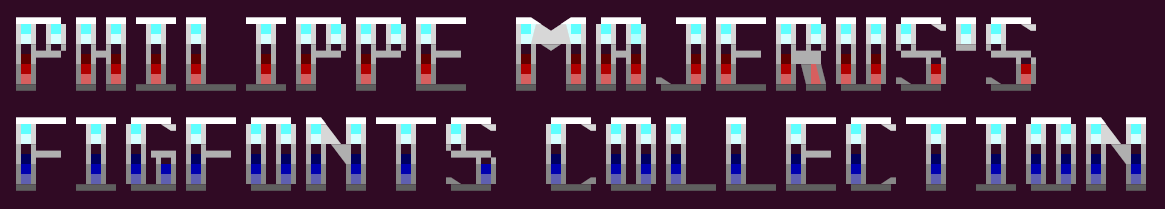
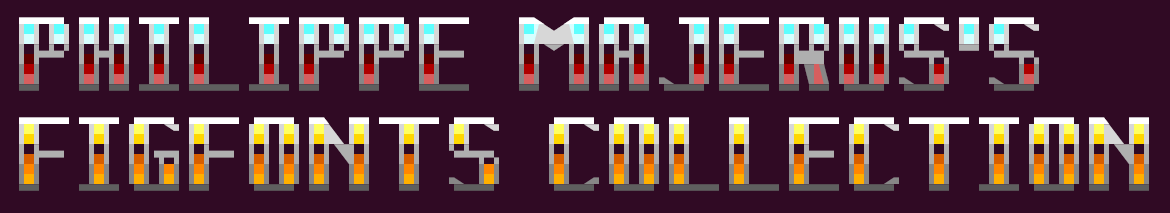
Updated documentation and title image.

diff --git a/README.md b/README.md
@@ -116,8 +116,8 @@ _Remember to use `figlet -f phm-slanted -C utf8` to access Unicode characters._
 ### phm-chisel
 ![phm-chisel](images/phm-chisel.png)
 
-This font uses Unicode 13.0 smooth mosaic and sextant characters, as well as some quadrants, and requires 16 colors ANSI/VT escape sequences support.
-It uses six rows and supports the ASCII, ISO 8859-1 and Windows 1252 Latin-1 characters sets, and Japanese Katakana (and Hiragana as Katakana).
+This font uses Unicode 13.0 smooth mosaic and sextant characters, as well as some quadrants, and requires 16 colors ANSI/VT escape sequences support, and uses six rows.
+It contains 617 characters, and supports the ASCII, ISO 8859-1 and Windows 1252 Latin-1 characters sets, and Japanese Katakana (and Hiragana as Katakana).
 
 It works in FIGlet 2.2.5, but the width computation gets confused, so it can only be used for single lines. It requires `-w 9999` to avoid misplaced line breaks.
 It does not work at all in TOIlet 0.3, as escape sequences get removed.
@@ -167,7 +167,7 @@ _Remember to use `figlet -f beyond-blue -w 9999` to avoid misplaced line breaks 
 
 ### PHM Beyond Neo (FIGfont family)
 
-This font family is inspired by the look of ST+Roy/SAC Beyond, but using just 5 rows by taking advantage of Unicode 16.0 Symbols for Legacy Computing. It supports the ASCII, ISO 8859-1 and Windows 1252 Latin-1 characters sets, and Japanese Katakana (and Hiragana as Katakana).
+This font family is inspired by the look of ST+Roy/SAC Beyond, but using just 5 rows by taking advantage of Unicode 16.0 Symbols for Legacy Computing. It contains 652 characters, and supports the ASCII, ISO 8859-1 and Windows 1252 Latin-1 characters sets, and Japanese Katakana (and Hiragana as Katakana).
 Several versions are available with different color schemes or compatible with plain-text.
 
 #### phm-beyondneo-red; -green; -blue; -yellow; -purple; -cyan; -orange, -pink, -silver, -gold
